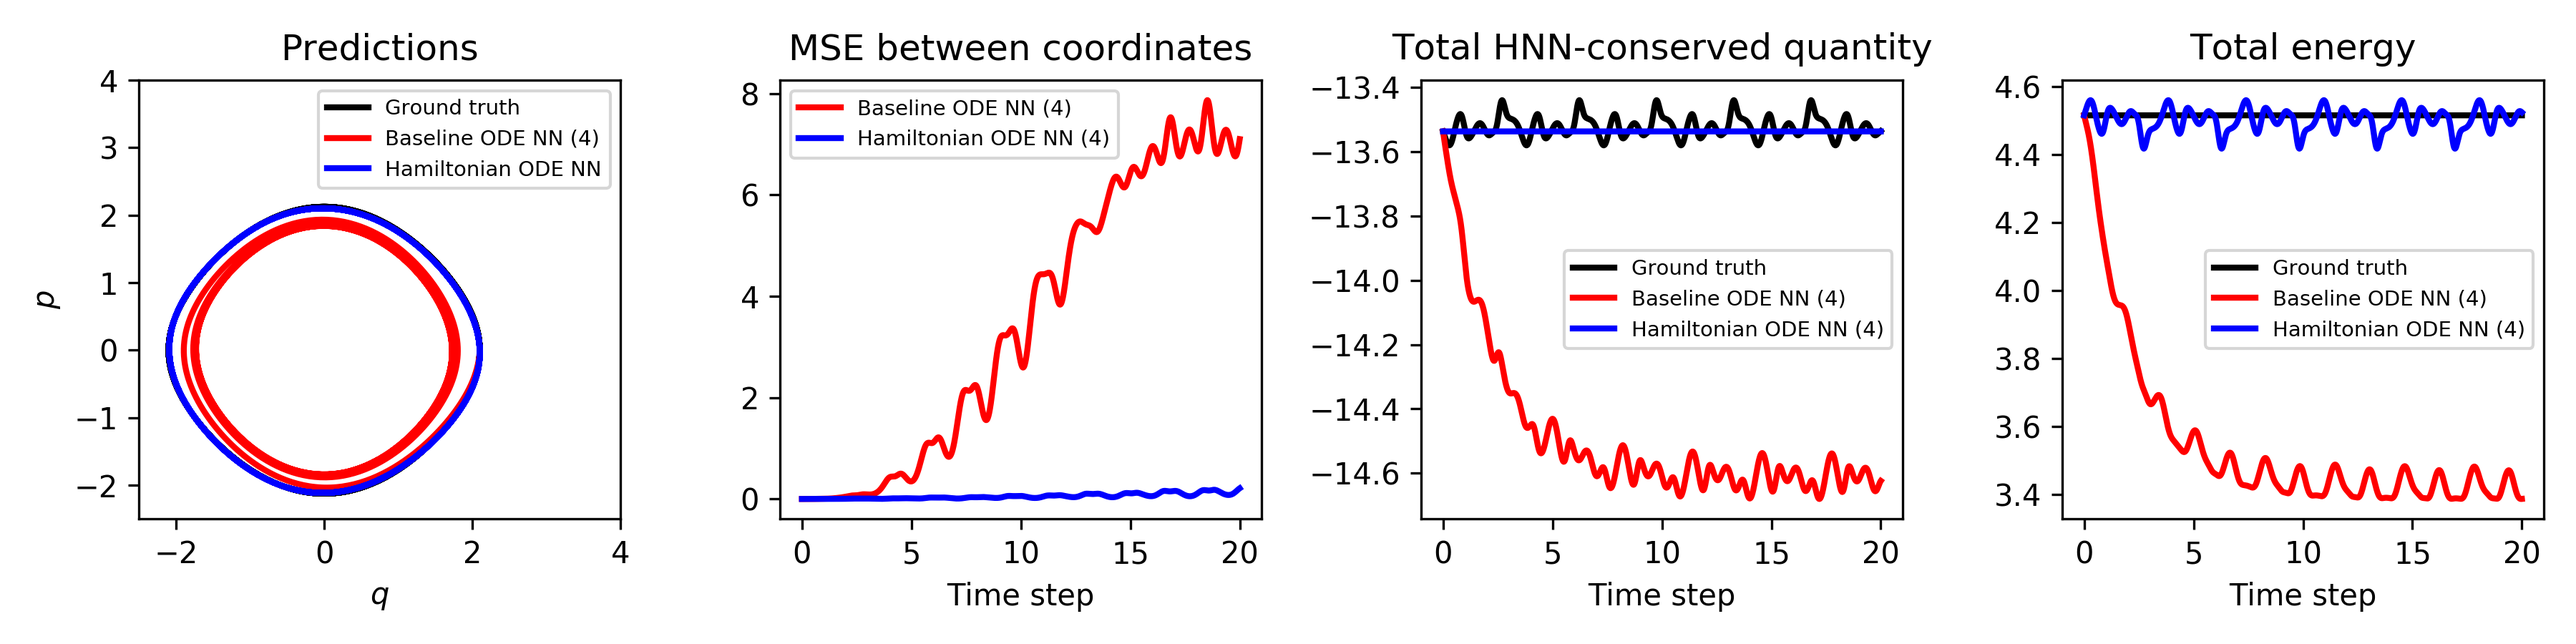
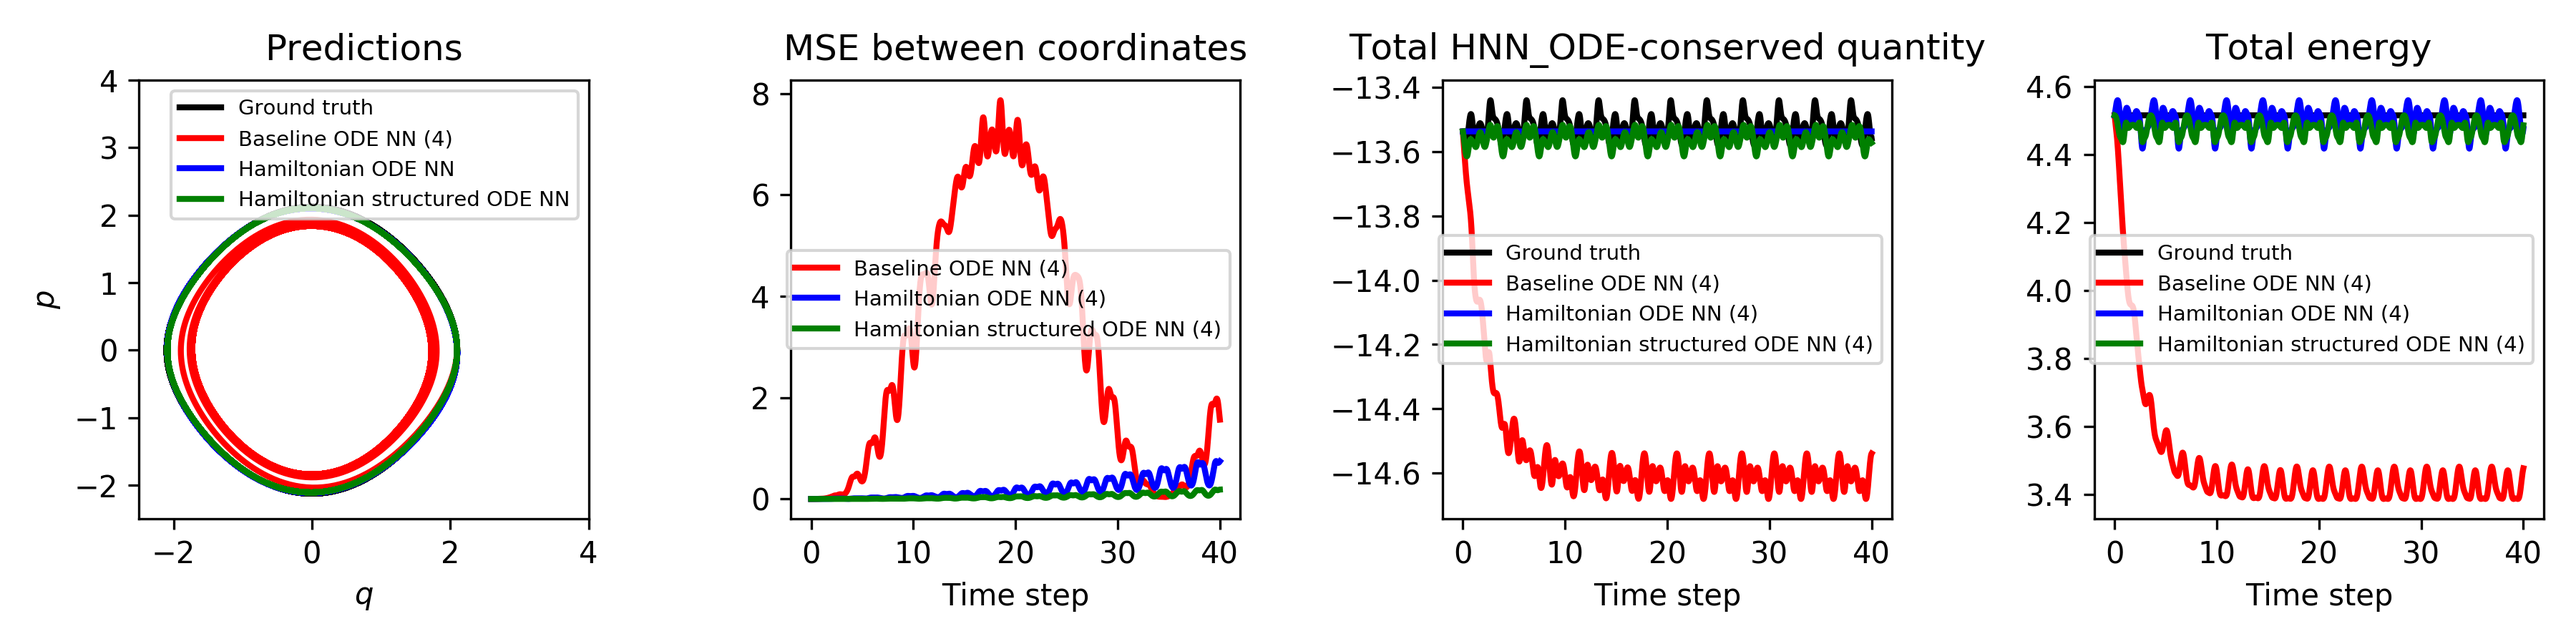
analyze adding mass structure to the hamiltonian, start adding damping term

diff --git a/analyze-pend.py b/analyze-pend.py
@@ -56,7 +56,7 @@ def get_args():
          'seed': 0,
          'save_dir': './{}'.format(EXPERIMENT_DIR),
          'fig_dir': './figures',
-         'num_points': 2,
+         'num_points': 4,
          'gpu': 0}
 
 class ObjectView(object):
@@ -328,5 +328,64 @@ plt.legend(fontsize=7)
 plt.tight_layout() ; plt.show()
 fig.savefig('{}/pend-p{}-integration.{}'.format(args.fig_dir, args.num_points, FORMAT))
 
+
+#%%
+
+# plotting the difference between trajectories
+tpad = 7
+pts = 500
+pte = 1000
+fig = plt.figure(figsize=[12, 4], dpi=DPI)
+plt.subplot(1,3,1)
+plt.title("True and Baseline", pad=tpad) ; plt.xlabel('t')
+plt.plot(t_eval[pts:pte], true_x[pts:pte,0], t_eval[pts:pte], true_x[pts:pte,1], 'g-')
+plt.plot(t_eval[pts:pte], base_x[pts:pte,0], '--', t_eval[pts:pte], base_x[pts:pte,1], 'b--')
+
+plt.subplot(1,3,2)
+plt.title("True and HNN ODE", pad=tpad) ; plt.xlabel('t')
+plt.plot(t_eval[pts:pte], true_x[pts:pte,0], t_eval[pts:pte], true_x[pts:pte,1], 'g-')
+plt.plot(t_eval[pts:pte], hnn_x[pts:pte,0], '--', t_eval[pts:pte], hnn_x[pts:pte,1], 'b--')
+
+plt.subplot(1,3,3)
+plt.title("True and Structured HNN ODE", pad=tpad) ; plt.xlabel('t')
+plt.plot(t_eval[pts:pte], true_x[pts:pte,0], t_eval[pts:pte], true_x[pts:pte,1], 'g-')
+plt.plot(t_eval[pts:pte], hnn_struct_x[pts:pte,0], '--', t_eval[pts:pte], hnn_struct_x[pts:pte,1], 'b--')
+
+#%%
+
+# plot some statistics
+# #%%
+# pend_baseline_stats = from_pickle(EXPERIMENT_DIR + 'pend-baseline-stats.pkl')
+# baseline_nfe = np.array(pend_baseline_stats['nfe'])
+# baseline_diff_nfe = baseline_nfe[1:] - baseline_nfe[:-1]
+# baseline_forward_time = np.array(pend_baseline_stats['forward_time'])
+# baseline_backward_time = np.array(pend_baseline_stats['backward_time'])
+
+def get_stats(args, baseline, structure, num_points):
+    model_name = 'baseline_ode' if baseline else 'hnn_ode'
+    struct = '-struct' if structure else ''
+    path = EXPERIMENT_DIR + 'pend-{}{}-p{}-stats.pkl'.format(model_name, struct, args.num_points)
+    model_stats = from_pickle(path)
+    return model_stats
+
+base_ode_stats = get_stats(args, baseline=True, structure=False, num_points=args.num_points)
+hnn_ode_stats = get_stats(args, baseline=False, structure=False, num_points=args.num_points)
+hnn_ode_struct_stats = get_stats(args, baseline=False, structure=True, num_points=args.num_points)
+
+fig = plt.figure(figsize=[12, 4], dpi=DPI)
+plt.subplot(1,3,1)
+plt.title("Baseline", pad = tpad) ; plt.xlabel('epochs')
+plt.plot(np.array(base_ode_stats['train_loss'])[0:500])
+plt.plot(np.array(base_ode_stats['test_loss'])[0:500])
+
+plt.subplot(1,3,2)
+plt.title("HNN ODE", pad=tpad) ; plt.xlabel('epochs')
+plt.plot(np.array(hnn_ode_stats['train_loss'])[0:500])
+plt.plot(np.array(hnn_ode_stats['test_loss'])[0:500])
+
+plt.subplot(1,3,3)
+plt.title("Structured HNN ODE", pad=tpad) ; plt.xlabel('epochs')
+plt.plot(np.array(hnn_ode_struct_stats['train_loss'])[0:500])
+plt.plot(np.array(hnn_ode_struct_stats['test_loss'])[0:500])
 
 #%%

diff --git a/experiment-pend/train.py b/experiment-pend/train.py
@@ -90,7 +90,7 @@ def train(args):
     for step in range(args.total_steps+1):
         # train step
         t = time.time()
-        train_x_hat = odeint(model.time_derivative, train_x[0, :, :], t_eval, method='rk4')
+        train_x_hat = odeint(model.time_derivative, train_x[0, :, :], t_eval, method='dopri5')
         forward_time = time.time() - t
         loss = L2_loss(train_x, train_x_hat)
 
@@ -99,7 +99,7 @@ def train(args):
         backward_time = time.time() - t
         
         # run test data
-        test_x_hat = odeint(model.time_derivative, test_x[0, :, :], t_eval, method='rk4')
+        test_x_hat = odeint(model.time_derivative, test_x[0, :, :], t_eval, method='dopri5')
         test_loss = L2_loss(test_x, test_x_hat)
 
         # logging

diff --git a/hnn.py b/hnn.py
@@ -72,9 +72,9 @@ class HNN_structure(torch.nn.Module):
         q, p = torch.chunk(x, 2, dim=1)
         L = self.L_net(q)
         V_q = self.V_net(q)
-        M_q = L * L 
+        M_q = L * L + 0.1
 
-        H = p * p * M_q /2 + V_q
+        H = p * p / M_q /2 + V_q
         return H
         # return p * p/ (2*self.L_net(q)*self.L_net(q)) + self.V_net(q)
 

diff --git a/notes.md b/notes.md
@@ -25,21 +25,24 @@ $\dot{p} = -\frac{\partial H}{\partial q}$
 ![image](figures/pend-p2.png)
 ![image](figures/pend-p2-integration.png)
 
-### Adding ODENet to HNN, training set $(q,p)$, evaluate 3 poitns
+### Adding ODENet to HNN, training set $(q,p)$, evaluate 3 points
 
 ![image](figures/pend-p3.png)
 ![image](figures/pend-p3-integration.png)
 
-### Adding ODENet to HNN, training set $(q,p)$, evaluate 4 poitns
+### Adding ODENet to HNN, training set $(q,p)$, evaluate 4 points
 
 ![image](figures/pend-p4.png)
 ![image](figures/pend-p4-integration.png)
 
-### Adding ODENet to HNN, training set $(q,p)$, evaluate 3 poitns
+### Adding ODENet to HNN, training set $(q,p)$, evaluate 5 points
 
 ![image](figures/pend-p5.png)
 ![image](figures/pend-p5-integration.png)
 
 ## Try to add structure to the ODENet
 
-It takes some trial and error to figure out how to implement the mass matrix structure into the network. 
+It takes some trial and error to figure out how to implement the mass matrix structure into the network, even in the 1D case
+- First I parametrize the mass matrix as $M = L * L$. Since mass shows up in the denominator. in other words, mass inverse shows up. This scheme would cause issue in the traning procedure. My guess is that it's numerically unstable and some weights blow up
+- Next I try to add a constant to the mass $ M = L * L + 0.1$. I think the positive constant stablized the process and the results are satisfatory.
+- Biswa suggested learning the inverse of mass directly. so I tried $H = p * p * M_q /2 + V_q$ instead of $H = p * p / M_q /2 + V_q$, with $M = L * L$. Training looks correct but we actually learnt the wrong vector field.
